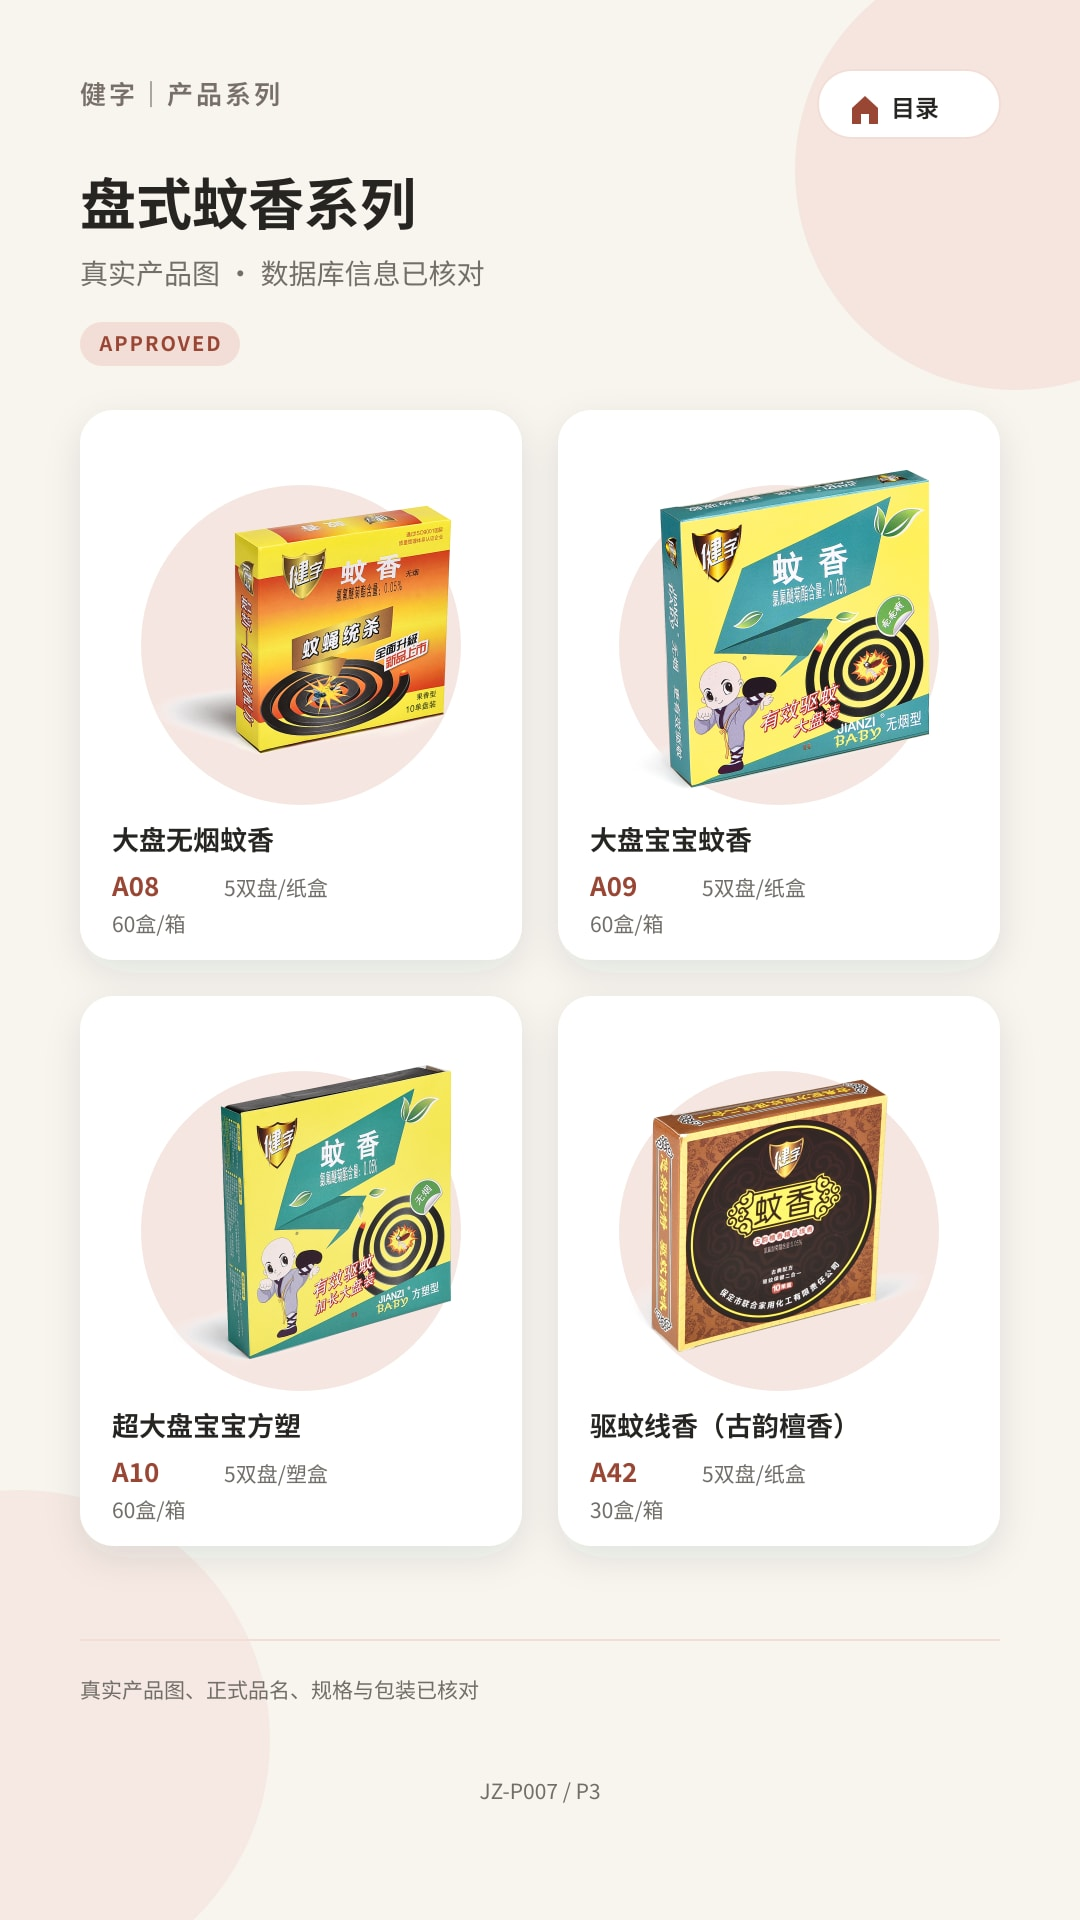
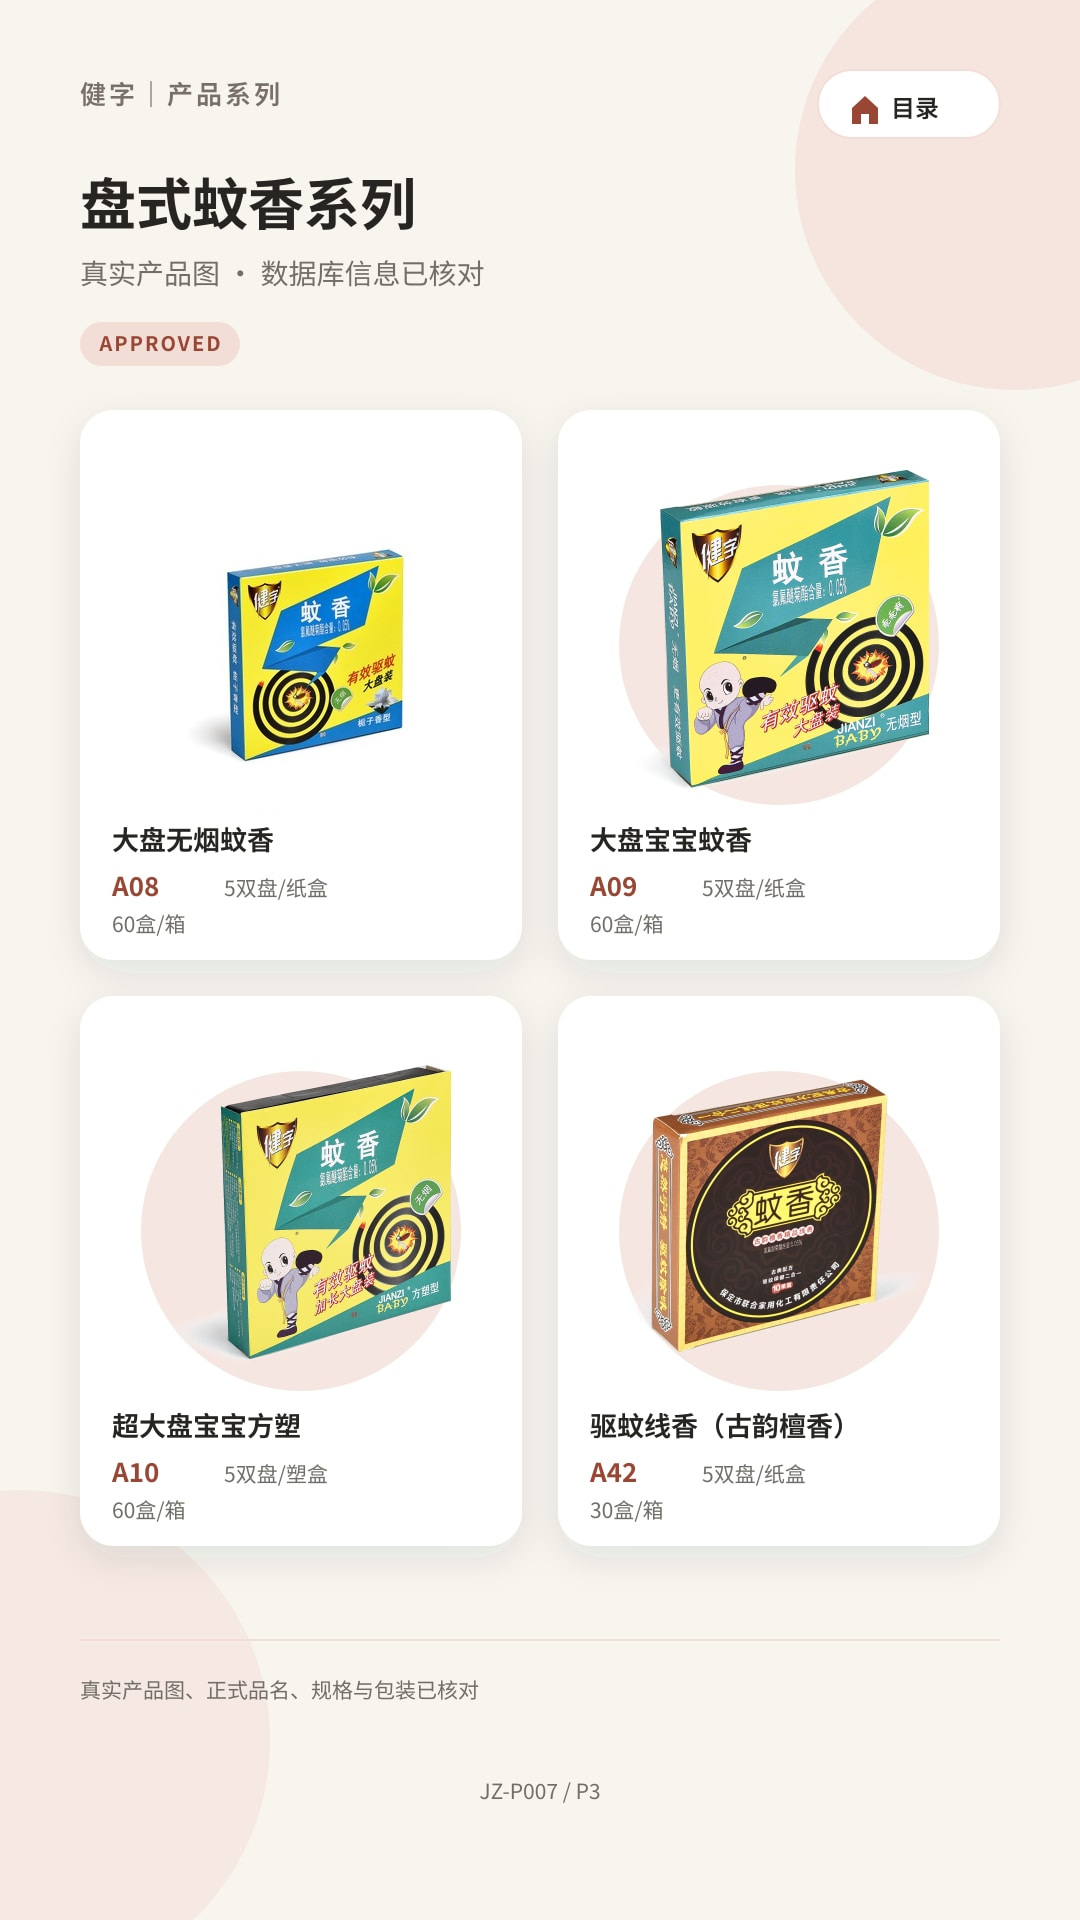
移除片香直插器并更新A08产品图

Changed region(s): [[0.1222, 0.25, 0.4278, 0.4375]]

diff --git a/index.html b/index.html
@@ -44,7 +44,6 @@ const pages = [
   {id:"JZ-P003",title:"电热蚊香液系列（一）",section:"健字",src:"pages/JZ-P003.jpg"},
   {id:"JZ-P004",title:"电热蚊香液系列（二）",section:"健字",src:"pages/JZ-P004.jpg"},
   {id:"JZ-P005",title:"电热蚊香片系列",section:"健字",src:"pages/JZ-P005.jpg"},
-  {id:"JZ-P006",title:"片香直插器",section:"健字",src:"pages/JZ-P006.jpg"},
   {id:"JZ-P007",title:"盘式蚊香系列",section:"健字",src:"pages/JZ-P007.jpg"},
   {id:"SEC-YJ",title:"鹰剑产品专区",section:"鹰剑",src:"pages/SEC-YJ.jpg"},
   {id:"YJ-P001",title:"电热驱蚊系列",section:"鹰剑",src:"pages/YJ-P001.jpg"},
@@ -81,7 +80,7 @@ const links = {
     [7.4,52.1,85.2,12.3,'COOP-001','进入招商合作'],[7.4,66.9,85.2,12.3,'CONTACT','进入联系方式']],
   'ENT-MARKET': [[7.4,77.0,85.2,8.5,'SEC-JZ','查看品牌与产品']],
   'ENT-INTRO': [[10.2,36.7,38,14.8,'@asset:营业执照.jpg','查看营业执照大图'],[51.8,36.7,38,14.8,'@asset:农药生产许可证.jpg','查看农药生产许可证大图'],[10.2,51.9,38,14.8,'@asset:农药登记证_代表证.jpg','查看农药登记证大图'],[51.8,51.9,38,14.8,'@asset:河北省科技型中小企业.jpg','查看科技型中小企业证书大图']],
-  'SEC-JZ': ['JZ-P001','JZ-P001B','JZ-P008','JZ-P002','JZ-P003','JZ-P004','JZ-P005','JZ-P006','JZ-P007'],
+  'SEC-JZ': ['JZ-P001','JZ-P001B','JZ-P008','JZ-P002','JZ-P003','JZ-P004','JZ-P005','JZ-P007'],
   'SEC-YJ': ['YJ-P001','YJ-P002','YJ-P003','YJ-P004'],
   'SEC-JGB': ['JGB-P001','JGB-P002'],
   'SEC-HC': ['HC-P001','HC-P002','HC-P003'],
@@ -89,15 +88,16 @@ const links = {
 };
 const productImages={
  'JZ-P001':['015','018','025','022'],'JZ-P001B':['016','017','026'],'JZ-P008':['A80','A77'],'JZ-P002':['063','064'],
- 'JZ-P003':['089','006','007','003'],'JZ-P004':['058','053'],'JZ-P005':['008','004','005','051'],'JZ-P006':['090'],'JZ-P007':['043','083','088','081'],
+ 'JZ-P003':['089','006','007','003'],'JZ-P004':['058','053'],'JZ-P005':['008','004','005','051'],'JZ-P007':['A08','083','088','081'],
  'YJ-P001':['049','050','059','060'],'YJ-P002':['045'],'YJ-P003':['013','018','020','023'],'YJ-P004':['021'],
  'JGB-P001':['091','024','027'],'JGB-P002':['071','070','068','069'],'HC-P001':['035','067','065'],'HC-P002':['010'],'HC-P003':['030','028','029','031']};
 const productLayout={4:[[7.4,21.3,40.9,28.6],[51.7,21.3,40.9,28.6],[7.4,51.9,40.9,28.6],[51.7,51.9,40.9,28.6]],3:[[7.4,21.3,40.9,28.6],[51.7,21.3,40.9,28.6],[29.5,51.9,40.9,28.6]],2:[[7.4,21.5,85.2,26.8],[7.4,50.5,85.2,26.8]],1:[[7.4,21.5,85.2,55.0]]};
 function openLightbox(src,label){lightboxImage.src=src;lightboxImage.alt=label;lightboxCaption.textContent=label;lightbox.hidden=false;document.body.classList.add('modal-open')}
 function closeLightbox(){lightbox.hidden=true;lightboxImage.src='';document.body.classList.remove('modal-open')}
 function sectionLinks(ids) { return ids.map((id,n)=>[(ids.length%2===1&&n===ids.length-1)?29.5:7.4+(n%2)*44.3,21.1+Math.floor(n/2)*14.3,40.9,12.2,id,'进入'+pages[byId[id]].title]); }
+function sectionLinksJz(ids) { return ids.map((id,n)=>[6.5+(n%2)*48.1,20.3+Math.floor(n/2)*15.1,38.9,10.9,id,'进入'+pages[byId[id]].title]); }
 function renderHotspots(p) {
-  hotspots.innerHTML=''; let items=links[p.id]||[]; if(items.length && typeof items[0]==='string') items=sectionLinks(items);
+  hotspots.innerHTML=''; let items=links[p.id]||[]; if(items.length && typeof items[0]==='string') items=p.id==='SEC-JZ'?sectionLinksJz(items):sectionLinks(items);
   if(p.id==='COVER') items=[];
   items.forEach(([x,y,w,h,target,label])=>{const b=document.createElement('button');b.className='hotspot';b.style.cssText=`left:${x}%;top:${y}%;width:${w}%;height:${h}%`;b.setAttribute('aria-label',label);if(p.id!=='SEC-JZ'&&label&&label.includes('进入')){const t=document.createElement('span');t.className='pulse-link';t.innerHTML='进入 <span class="pulse-arrow">→</span>';b.append(t)}b.onclick=()=>{if(target==='@tel'){location.href='tel:03122161615';return}if(target.startsWith('@asset:')){window.open('assets/'+encodeURIComponent(target.slice(7)),'_blank');return}show(byId[target])};hotspots.append(b);});
   const ids=productImages[p.id];if(ids){const pos=p.id==='JZ-P008'?[[7.4,31.8,40.9,33.9],[51.7,31.8,40.9,33.9]]:productLayout[ids.length];ids.forEach((n,i)=>{const [x,y,w,h]=pos[i];const b=document.createElement('button');b.className='hotspot product-hotspot';b.style.cssText=`left:${x}%;top:${y}%;width:${w}%;height:${h}%`;b.setAttribute('aria-label','点击放大产品图片 '+n);b.onclick=e=>{e.stopPropagation();openLightbox('assets/products/IMG_'+n+'.jpg','真实产品图片 '+n)};hotspots.append(b)})}

diff --git a/style.css b/style.css
@@ -2,3 +2,4 @@
 .hotspot .pulse-link{position:absolute;right:5%;bottom:8%;color:#d7352a;font-weight:800;font-size:clamp(13px,3.8vw,21px);text-shadow:0 1px 5px #fff,0 0 10px #fff;animation:entryPulse 1.05s ease-in-out infinite;pointer-events:none}.hotspot .pulse-arrow{display:inline-block;margin-left:.2em;font-size:1.25em}@keyframes entryPulse{0%,100%{transform:scale(1);opacity:.72}50%{transform:scale(1.1);opacity:1}}@media(prefers-reduced-motion:reduce){.hotspot .pulse-link{animation:none;opacity:1}}
 
 .product-hotspot{border:2px solid transparent}.product-hotspot:active{background:#fff2}.lightbox{position:fixed;z-index:100;inset:0;background:#17130fee;display:flex;align-items:center;justify-content:center;padding:64px 18px 72px}.lightbox[hidden]{display:none}.lightbox img{display:block;max-width:96vw;max-height:82vh;object-fit:contain;background:#fff;border-radius:14px;box-shadow:0 14px 50px #0008}.lightbox button{position:absolute;right:18px;top:18px;width:48px;height:48px;border:0;border-radius:50%;background:#fff;color:#26231f;font-size:34px;line-height:1}.lightbox div{position:absolute;bottom:24px;color:#fff;font-size:15px;font-weight:700}.modal-open{overflow:hidden}.cover-pulse,.market-pulse{position:absolute;z-index:4;border:0;background:transparent;color:#fff;font-weight:800;text-align:center;pointer-events:auto;animation:entryPulse 1.05s ease-in-out infinite;text-shadow:0 2px 5px #0006}.cover-pulse{left:16.7%;top:87.7%;width:66.6%;height:6%;font-size:clamp(20px,6vw,34px)}.market-pulse{left:16.7%;top:77.1%;width:66.6%;height:6%;font-size:clamp(19px,5.7vw,32px);pointer-events:none}.choose-product-tip{position:absolute;right:8%;bottom:7.5%;display:flex;flex-direction:column;align-items:center;color:#9A4635;text-shadow:0 1px 5px #fff}.choose-product-tip span{font-size:clamp(38px,11vw,62px);line-height:1}.choose-product-tip strong{font-size:clamp(20px,6vw,34px);white-space:nowrap}.product-zoom-tip{position:absolute;z-index:6;left:16.7%;top:83.1%;width:66.6%;height:6%;border-radius:999px;background:#9A4635;color:#fff;display:flex;align-items:center;justify-content:center;font-size:clamp(20px,6vw,34px);font-weight:800;box-shadow:0 5px 18px #5f211f35}
+.choose-product-tip{left:50%!important;right:auto!important;transform:translateX(-50%)!important;bottom:4.2%!important}

diff --git a/sw.js b/sw.js
@@ -1,1 +1,1 @@
-const C='topic6-v1-furame-p08-31';const CORE=['./','./index.html','./style.css','./manifest.webmanifest','./icon-192.png'];self.addEventListener('install',e=>e.waitUntil(caches.open(C).then(c=>c.addAll(CORE)).then(()=>self.skipWaiting())));self.addEventListener('activate',e=>e.waitUntil(caches.keys().then(keys=>Promise.all(keys.filter(k=>k!==C).map(k=>caches.delete(k)))).then(()=>self.clients.claim())));self.addEventListener('fetch',e=>e.respondWith(caches.match(e.request).then(r=>r||fetch(e.request).then(x=>{const y=x.clone();caches.open(C).then(c=>c.put(e.request,y));return x;}))));
+const C='topic6-v1-remove-p006-a08-30';const CORE=['./','./index.html','./style.css','./manifest.webmanifest','./icon-192.png'];self.addEventListener('install',e=>e.waitUntil(caches.open(C).then(c=>c.addAll(CORE)).then(()=>self.skipWaiting())));self.addEventListener('activate',e=>e.waitUntil(caches.keys().then(keys=>Promise.all(keys.filter(k=>k!==C).map(k=>caches.delete(k)))).then(()=>self.clients.claim())));self.addEventListener('fetch',e=>e.respondWith(caches.match(e.request).then(r=>r||fetch(e.request).then(x=>{const y=x.clone();caches.open(C).then(c=>c.put(e.request,y));return x;}))));
